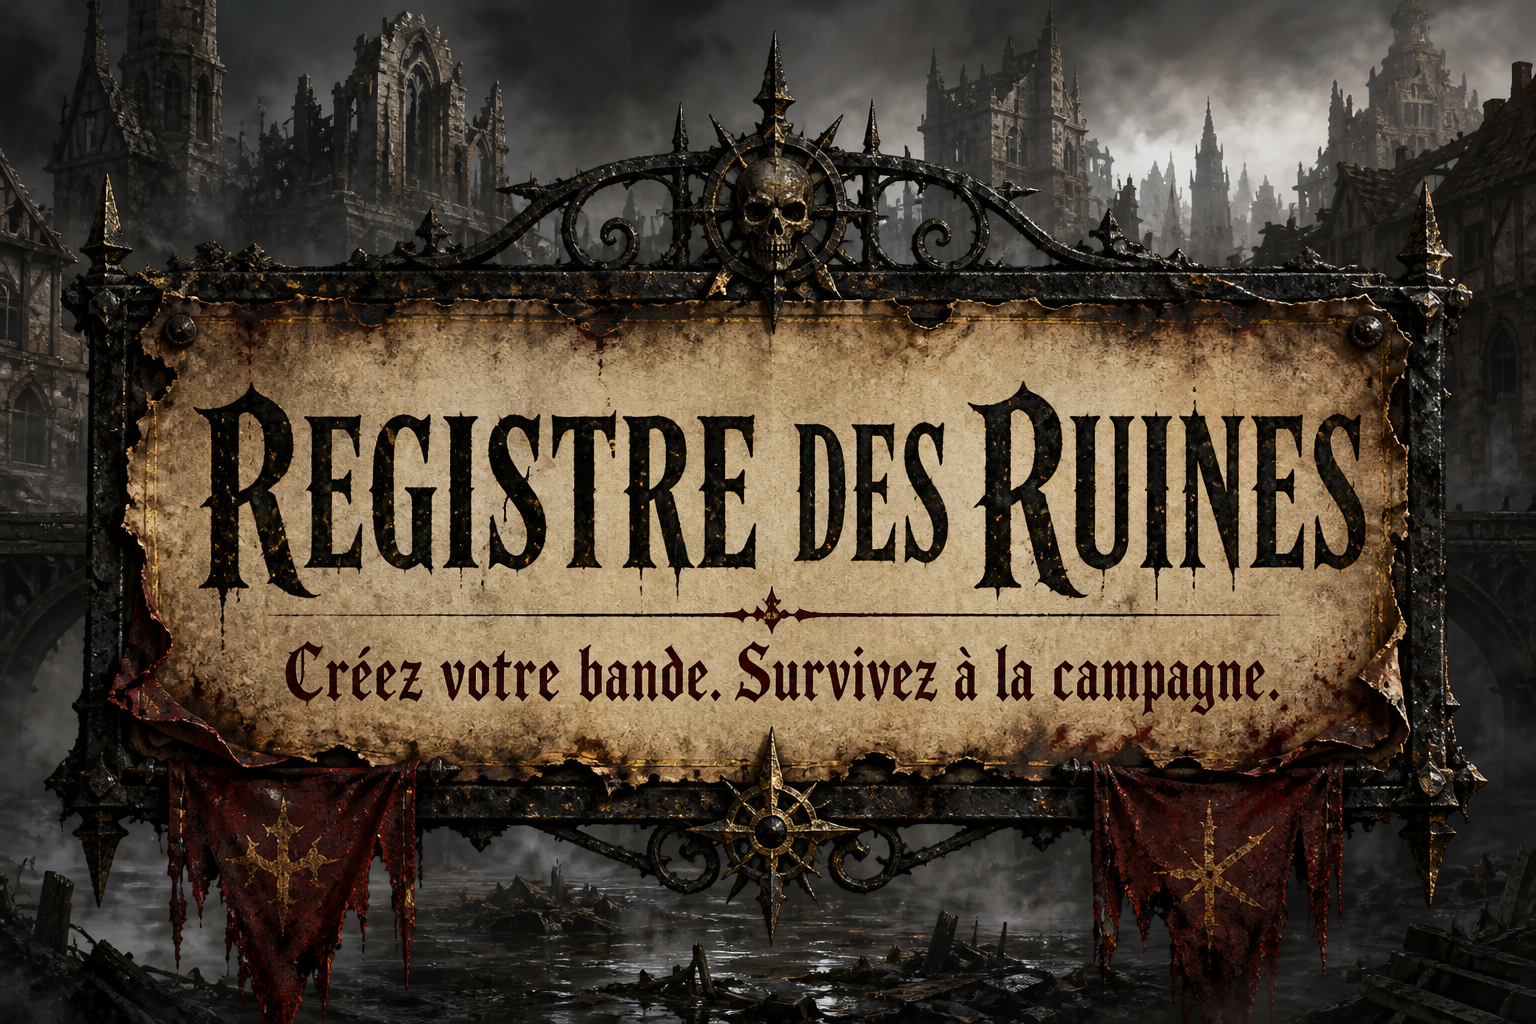
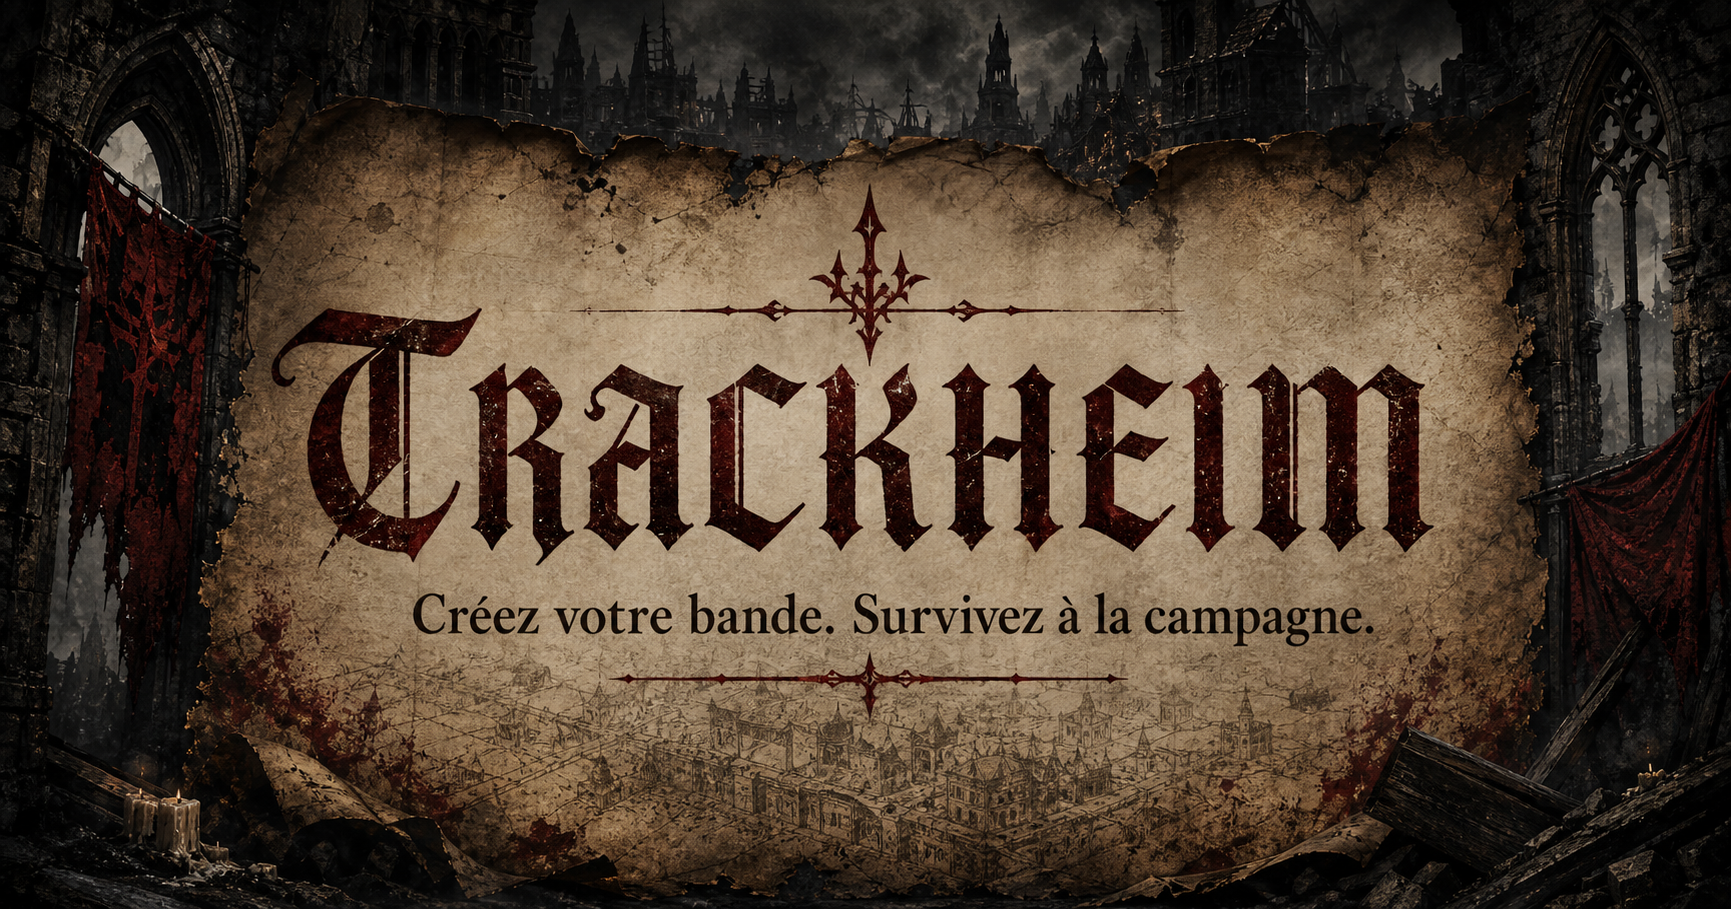
Rename app to Trackheim and improve responsive readability

diff --git a/app/globals.css b/app/globals.css
@@ -430,3 +430,214 @@ button { font: inherit; }
   .campaign-step > span { grid-column: 2; }
   .price-row { grid-template-columns: minmax(0, 1fr) 60px 18px; }
 }
+
+/*
+ * Lisibilité générale
+ * La première version privilégiait une densité trop forte. Cette échelle reste
+ * compacte, mais conserve une taille confortable sur les écrans 2K et 4K.
+ */
+body { font-size: 15px; line-height: 1.45; }
+.application-layout { grid-template-columns: 270px minmax(0, 1fr); }
+.content-wrap { width: 100%; max-width: 1720px; margin-inline: auto; padding-block-start: 36px; }
+.sidebar { padding: 28px 18px 20px; }
+.brand-block { gap: 13px; padding-bottom: 34px; }
+.brand-mark { width: 42px; height: 48px; }
+.brand-title {
+  font-family: 'Schoensperger', var(--font-pirata), serif;
+  font-size: 34px;
+  line-height: .88;
+}
+.brand-kicker, .sidebar-label { font-size: 11px; }
+.navigation-item { min-height: 46px; font-size: 14px; }
+.navigation-item svg { width: 19px; height: 19px; }
+.new-badge, .sidebar-source { font-size: 11px; }
+.topbar { min-height: 82px; }
+.eyebrow, .save-state { font-size: 11px; }
+.campaign-switcher { font-size: 18px; }
+.search-button { height: 40px; font-size: 13px; }
+.warband-heading h1 { font-size: clamp(36px, 2.35vw, 48px); }
+.warband-heading > div > p, .page-header > div > p:last-child { font-size: 14px; }
+.grade-badge, .rating-chip, .source-chip, .grade { font-size: 11px; }
+.metrics-grid { gap: 16px; margin-top: 32px; }
+.metric-card { min-height: 122px; grid-template-columns: 45px 1fr; gap: 13px; padding: 18px 17px 15px; }
+.metric-icon { width: 42px; height: 42px; }
+.metric-icon svg { width: 20px; }
+.metric-card p, .builder-summary > span, .library-toolbar > span { font-size: 12px; }
+.metric-card strong { font-size: 29px; }
+.metric-card small { font-size: 12px; }
+.metric-note { font-size: 11px; }
+.dashboard-grid { grid-template-columns: minmax(0, 1.55fr) minmax(360px, .72fr); gap: 20px; margin-top: 20px; }
+.panel-header { min-height: 76px; padding: 15px 20px; }
+.panel-header h2 { font-size: 23px; }
+.fighter-list { padding-inline: 19px; }
+.fighter-row { grid-template-columns: 44px minmax(0, 1fr); gap: 13px; padding-block: 16px; }
+.fighter-avatar { width: 40px; height: 40px; font-size: 12px; }
+.fighter-name-line h3, .management-identity strong { font-size: 17px; }
+.fighter-name-line p, .management-identity span { font-size: 12px; }
+.status { padding: 3px 8px; font-size: 11px; }
+.stat-line { font-size: 11px; line-height: 1.55; }
+.fighter-foot, .profile-card-footer { font-size: 11px; }
+.step-item { min-height: 34px; font-size: 12px; }
+.step-number { width: 21px; height: 21px; font-size: 10px; }
+.campaign-progress [data-slot='progress-label'],
+.campaign-progress [data-slot='progress-value'] { font-size: 11px; }
+.last-battle-card h3 { font-size: 16px; }
+.last-battle-card p:not(.eyebrow), .victory-badge { font-size: 10px; }
+.page-header h1 { font-size: clamp(38px, 2.7vw, 52px); }
+.source-button { min-height: 42px; font-size: 13px; }
+.builder-summary { min-height: 70px; }
+.builder-summary strong { font-size: 26px; }
+.profile-card { min-height: 205px; padding: 17px; }
+.profile-card-header span, .profile-card-header strong { font-size: 12px; }
+.profile-card h3, .library-card h3 { font-size: 21px; }
+.management-row { min-height: 76px; padding: 13px 18px; }
+.xp-control > span, .field-group, .profile-preview span, .section-title-row span,
+.dialog-total span, .campaign-step p, .rule-note p, .library-card > p,
+.homebrew-toggle p, .price-row small, .empty-state p { font-size: 12px; }
+.xp-control strong { font-size: 15px; }
+.recruit-dialog [data-slot='dialog-title'] { font-size: 27px; }
+.profile-preview strong { font-size: 20px; }
+.profile-preview code, .profile-preview p, .equipment-option strong,
+.form-alert, .resource-heading p, .price-row strong { font-size: 12px; }
+.equipment-option small, .equipment-option b, .campaign-step > span,
+.counter-control span, .rule-note a, .library-card-actions a, .price-row b { font-size: 11px; }
+.section-title-row h3, .homebrew-toggle strong, .empty-state strong { font-size: 19px; }
+.campaign-step { min-height: 62px; }
+.campaign-step > button { width: 38px; height: 38px; }
+.campaign-step strong { font-size: 17px; }
+.resource-counter, .rule-note { padding: 18px; }
+.library-card { min-height: 205px; padding: 17px; }
+.homebrew-toggle { min-height: 76px; }
+.price-row { min-height: 54px; }
+
+/*
+ * Tablettes et téléphones
+ * La navigation devient une barre basse à cinq entrées, avec libellés visibles
+ * et zones tactiles conformes aux usages mobiles.
+ */
+@media (max-width: 1080px) {
+  .application-layout { grid-template-columns: 88px minmax(0, 1fr); }
+  .sidebar { padding-inline: 14px; }
+}
+
+/* Sur un écran 2K, l’interface gagne un cran typographique supplémentaire. */
+@media (min-width: 2000px) {
+  body { font-size: 16px; }
+  .application-layout { grid-template-columns: 288px minmax(0, 1fr); }
+  .content-wrap { max-width: 1840px; }
+  .navigation-item { font-size: 15px; }
+  .brand-kicker, .sidebar-label, .eyebrow, .save-state { font-size: 12px; }
+  .brand-title { font-size: 38px; }
+  .sidebar-source, .new-badge { font-size: 12px; }
+  .warband-heading > div > p, .page-header > div > p:last-child { font-size: 15px; }
+  .metric-card p, .metric-card small, .builder-summary > span,
+  .library-toolbar > span { font-size: 13px; }
+  .metric-note, .grade-badge, .rating-chip, .source-chip, .grade { font-size: 12px; }
+  .fighter-name-line h3, .management-identity strong { font-size: 18px; }
+  .fighter-name-line p, .management-identity span, .fighter-foot,
+  .profile-card-footer, .stat-line { font-size: 13px; }
+  .status, .campaign-progress [data-slot='progress-label'],
+  .campaign-progress [data-slot='progress-value'] { font-size: 12px; }
+  .step-item { font-size: 13px; }
+}
+
+@media (max-width: 780px) {
+  body { font-size: 16px; }
+  .application-layout { display: block; }
+  .workspace { padding-bottom: calc(78px + env(safe-area-inset-bottom)); }
+  .topbar {
+    position: sticky;
+    z-index: 20;
+    top: 0;
+    min-height: 68px;
+    padding: 10px 16px;
+  }
+  .campaign-switcher { max-width: 58vw; font-size: 17px; text-align: left; }
+  .content-wrap { max-width: none; padding: 24px 16px 28px; }
+  .sidebar {
+    position: fixed;
+    z-index: 50;
+    inset: auto 0 0;
+    display: grid;
+    width: 100%;
+    height: calc(72px + env(safe-area-inset-bottom));
+    grid-template-columns: repeat(5, minmax(0, 1fr));
+    align-items: start;
+    border-top: 1px solid #4a3d31;
+    border-right: 0;
+    padding: 6px 6px env(safe-area-inset-bottom);
+    box-shadow: 0 -8px 28px rgb(20 14 10 / 24%);
+  }
+  .brand-block, .sidebar-separator, .sidebar-label, .sidebar-source { display: none; }
+  .sidebar .navigation-stack,
+  .sidebar .navigation-stack.tools-navigation { display: contents !important; }
+  .settings-navigation-item { display: none !important; }
+  .sidebar .navigation-item {
+    display: flex;
+    min-width: 0;
+    min-height: 60px;
+    flex-direction: column;
+    justify-content: center;
+    gap: 4px;
+    padding: 4px 2px;
+    font-size: 10px;
+    line-height: 1.05;
+    text-align: center;
+  }
+  .sidebar .navigation-item span:not(.new-badge) { display: block; }
+  .sidebar .navigation-item svg { width: 21px; height: 21px; }
+  .sidebar .navigation-item .new-badge { display: none; }
+  .navigation-item.active::before { inset: auto 10px -6px; width: auto; height: 3px; }
+  .search-button { width: 42px; height: 42px; }
+  .avatar { width: 40px; height: 40px; }
+  .warband-heading h1, .page-header h1 { font-size: clamp(34px, 9vw, 44px); }
+  .warband-heading > div > p, .page-header > div > p:last-child { font-size: 15px; }
+  .metrics-grid { grid-template-columns: repeat(2, minmax(0, 1fr)); gap: 12px; }
+  .metric-card { min-height: 118px; }
+  .dashboard-grid, .campaign-layout, .homebrew-grid { grid-template-columns: 1fr; }
+  .page-header { align-items: stretch; flex-direction: column; gap: 16px; }
+  .page-header > :last-child { align-self: flex-start; }
+  .recruitment-grid, .library-grid { grid-template-columns: repeat(2, minmax(0, 1fr)); }
+  [data-slot='button'], .source-button { min-height: 44px; }
+  .step-item { min-height: 42px; font-size: 13px; }
+  .fighter-name-line p, .fighter-foot, .management-identity span,
+  .profile-card-footer, .campaign-step p, .rule-note p,
+  .library-card > p, .homebrew-toggle p, .price-row small { font-size: 13px; }
+  .stat-line { font-size: 12px; }
+  .recruit-dialog { width: calc(100vw - 24px); max-height: calc(100dvh - 24px); }
+}
+
+@media (max-width: 560px) {
+  .content-wrap { padding-inline: 14px; }
+  .topbar-actions { gap: 8px; }
+  .eyebrow { font-size: 10px; }
+  .metrics-grid { margin-top: 22px; }
+  .metric-card { grid-template-columns: 38px 1fr; padding: 15px 13px; }
+  .metric-icon { width: 36px; height: 36px; }
+  .metric-card p { font-size: 11px; }
+  .metric-card strong { font-size: 27px; }
+  .metric-card small, .metric-note { font-size: 11px; }
+  .panel-header { min-height: 68px; padding-inline: 15px; }
+  .fighter-list { padding-inline: 13px; }
+  .fighter-row { grid-template-columns: 42px minmax(0, 1fr); }
+  .fighter-name-line h3 { font-size: 18px; }
+  .status { font-size: 12px; }
+  .fighter-foot { align-items: flex-start; flex-direction: column; gap: 5px; }
+  .recruitment-grid, .library-grid { grid-template-columns: 1fr; }
+  .builder-summary { grid-template-columns: auto 1fr; }
+  .budget-track { grid-column: 1 / -1; }
+  .management-row { grid-template-columns: 42px minmax(0, 1fr) auto; padding-inline: 13px; }
+  .management-row .xp-control { grid-column: 2; }
+  .management-row [data-slot='native-select-wrapper'] { grid-column: 2; width: 100%; }
+  .management-row > button { grid-column: 3; grid-row: 1; }
+  .library-toolbar, .form-grid, .equipment-options { grid-template-columns: 1fr; }
+  .campaign-step { grid-template-columns: 42px 1fr; padding-inline: 13px; }
+  .campaign-step > span { grid-column: 2; }
+  .homebrew-toggle { align-items: flex-start; }
+  .price-row { grid-template-columns: minmax(0, 1fr) 66px 20px; }
+}
+
+@media (max-width: 380px) {
+  .metrics-grid { grid-template-columns: 1fr; }
+  .campaign-switcher { max-width: 54vw; }
+}

diff --git a/app/mordheim-app.tsx b/app/mordheim-app.tsx
@@ -182,11 +182,11 @@ function Sidebar({
         <div className="brand-mark" aria-hidden="true"><Skull /></div>
         <div>
           <p className="brand-kicker">Mordheim</p>
-          <p className="brand-title">Registre des Ruines</p>
+          <p className="brand-title">Trackheim</p>
         </div>
       </div>
 
-      <nav className="navigation-stack" aria-label="Navigation principale">
+      <nav className="navigation-stack primary-navigation" aria-label="Navigation principale">
         {navigation.map(({ id, libelle, icone: Icone }) => (
           <button
             key={id}
@@ -202,7 +202,7 @@ function Sidebar({
 
       <div className="sidebar-separator" />
       <p className="sidebar-label">Outils</p>
-      <nav className="navigation-stack" aria-label="Outils">
+      <nav className="navigation-stack tools-navigation" aria-label="Outils">
         <button
           className={vue === 'homebrew' ? 'navigation-item active' : 'navigation-item'}
           onClick={() => onVueChange('homebrew')}
@@ -212,7 +212,7 @@ function Sidebar({
           <span>Règles homebrew</span>
           <span className="new-badge">Nouveau</span>
         </button>
-        <button className="navigation-item" type="button">
+        <button className="navigation-item settings-navigation-item" type="button">
           <Settings2 aria-hidden="true" />
           <span>Paramètres</span>
         </button>

diff --git a/app/layout.tsx b/app/layout.tsx
@@ -31,26 +31,26 @@ const pirata = Pirata_One({
 
 export const metadata: Metadata = {
   metadataBase: new URL('https://registre-des-ruines.leliondoc.chatgpt.site'),
-  title: 'Registre des Ruines — Mordheim',
+  title: 'Trackheim — créateur de bande et tracker de campagne Mordheim',
   description:
     'Créateur de bande et tracker de campagne Mordheim alimenté par la Grande Librairie de Mordheim.',
   openGraph: {
-    title: 'Registre des Ruines — Mordheim',
+    title: 'Trackheim',
     description: 'Créez votre bande. Survivez à la campagne.',
     type: 'website',
     locale: 'fr_FR',
     images: [
       {
         url: '/og.png',
-        width: 1536,
-        height: 1024,
-        alt: 'Registre des Ruines — créateur de bande Mordheim',
+        width: 1731,
+        height: 909,
+        alt: 'Trackheim — créateur de bande et tracker Mordheim',
       },
     ],
   },
   twitter: {
     card: 'summary_large_image',
-    title: 'Registre des Ruines — Mordheim',
+    title: 'Trackheim',
     description: 'Créez votre bande. Survivez à la campagne.',
     images: ['/og.png'],
   },
